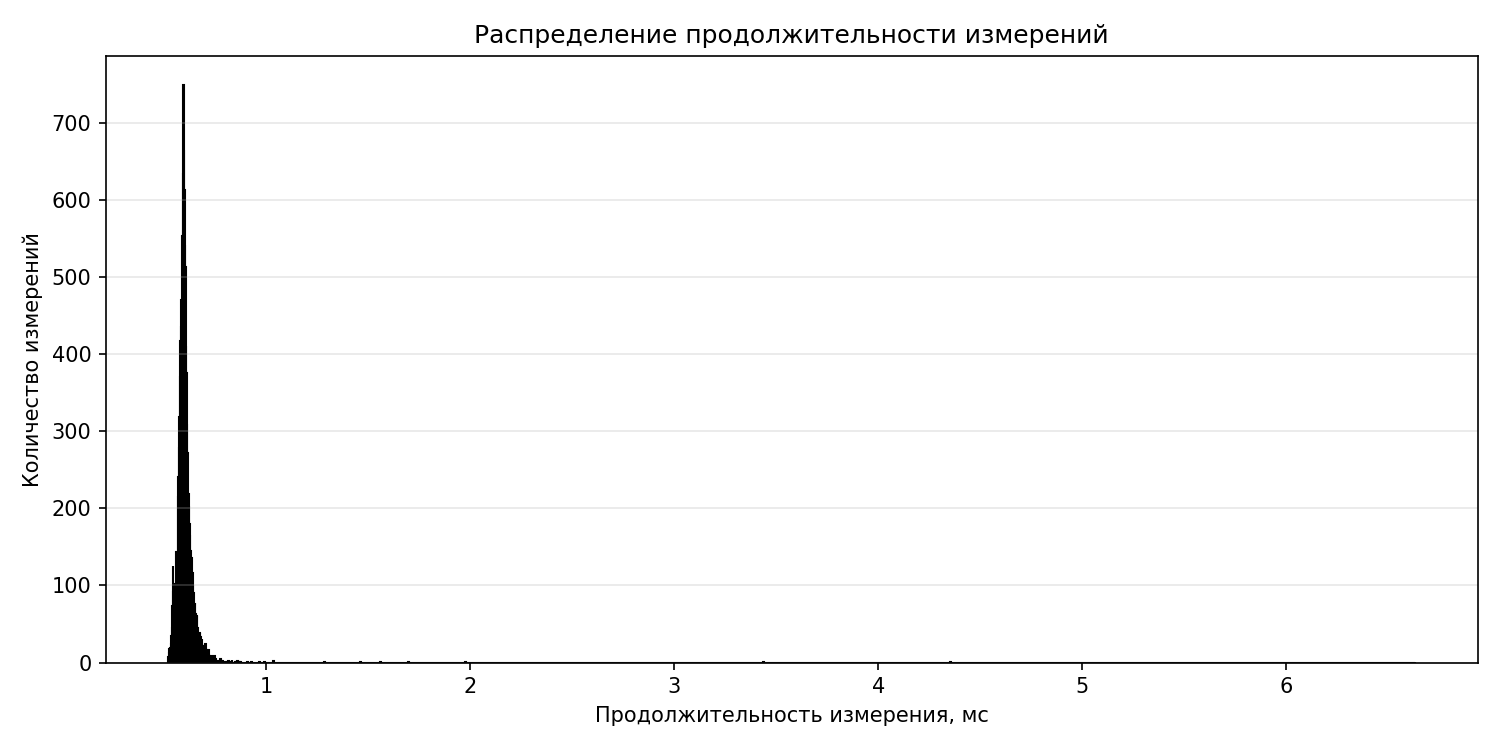
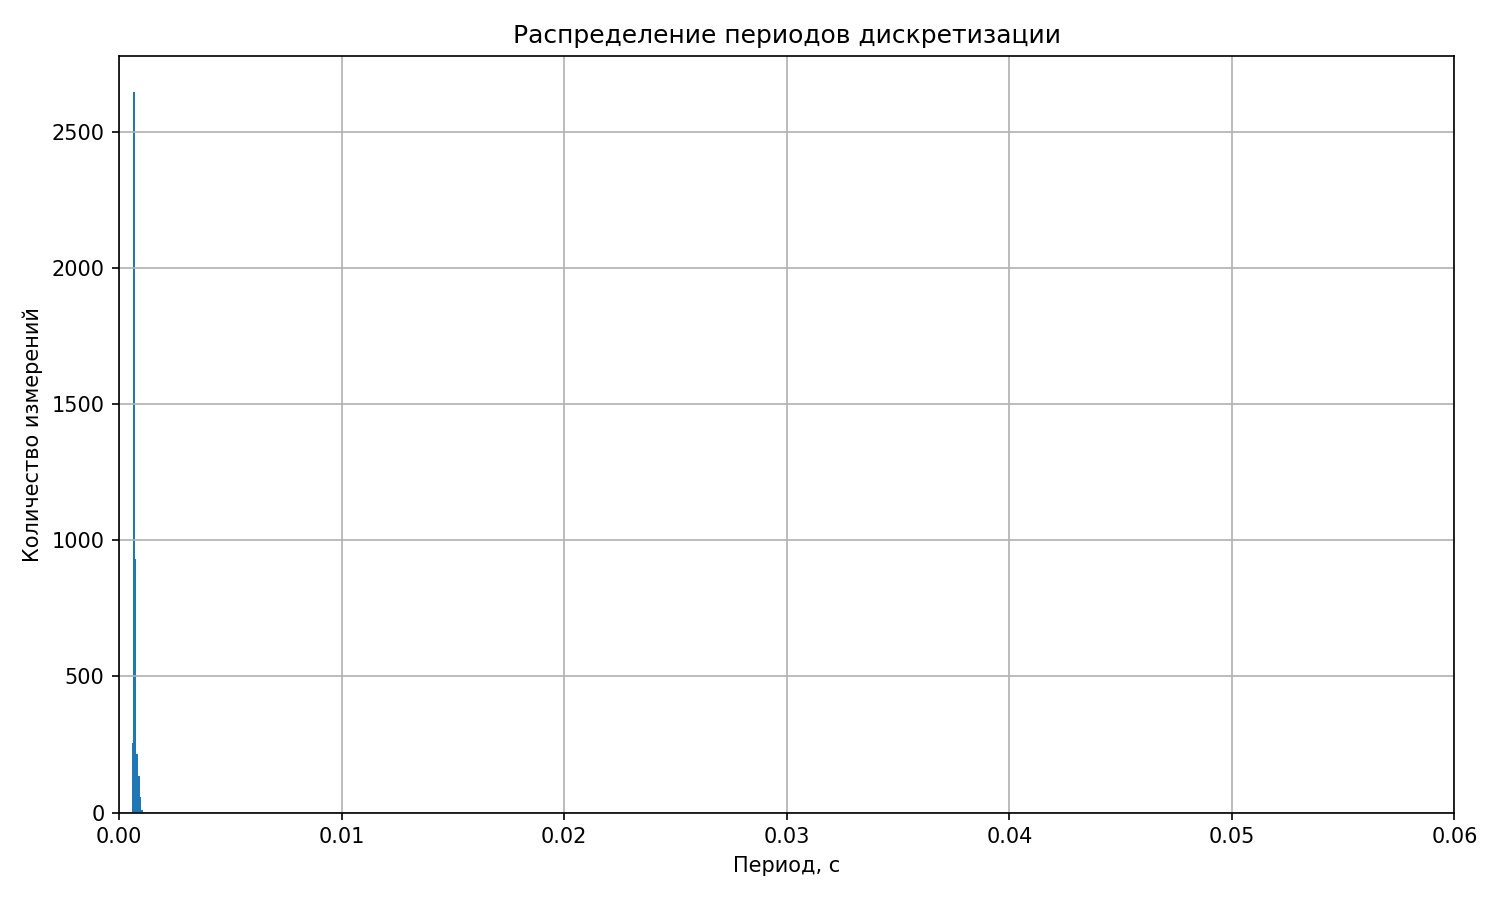
АЦП сделана

diff --git a/get-adc2/mcp.py b/get-adc2/mcp.py
@@ -5,7 +5,7 @@ from mcp3021_driver import MCP3021
 
 
 DYNAMIC_RANGE = 5.0
-MEASUREMENT_TIME = 10.0
+MEASUREMENT_TIME = 3.0
 
 
 def main():
@@ -39,7 +39,7 @@ def main():
         print("Нет данных для построения графиков.")
         return
 
-    # --- ГРАФИК НАПРЯЖЕНИЯ (остается как был) ---
+  
     fig1 = plt.figure(figsize=(10, 5))
     plt.plot(times, voltages, "b.-")
     plt.xlabel("Время, с")
@@ -49,7 +49,7 @@ def main():
     plt.tight_layout()
     fig1.savefig("10-bit-i2c-adc-plot.png", dpi=150)
 
-    # --- ГИСТОГРАММА (как в примере через разницу соседних измерений) ---
+    
     sampling_periods = []
     for i in range(1, len(times)):
         diff = times[i] - times[i - 1]
